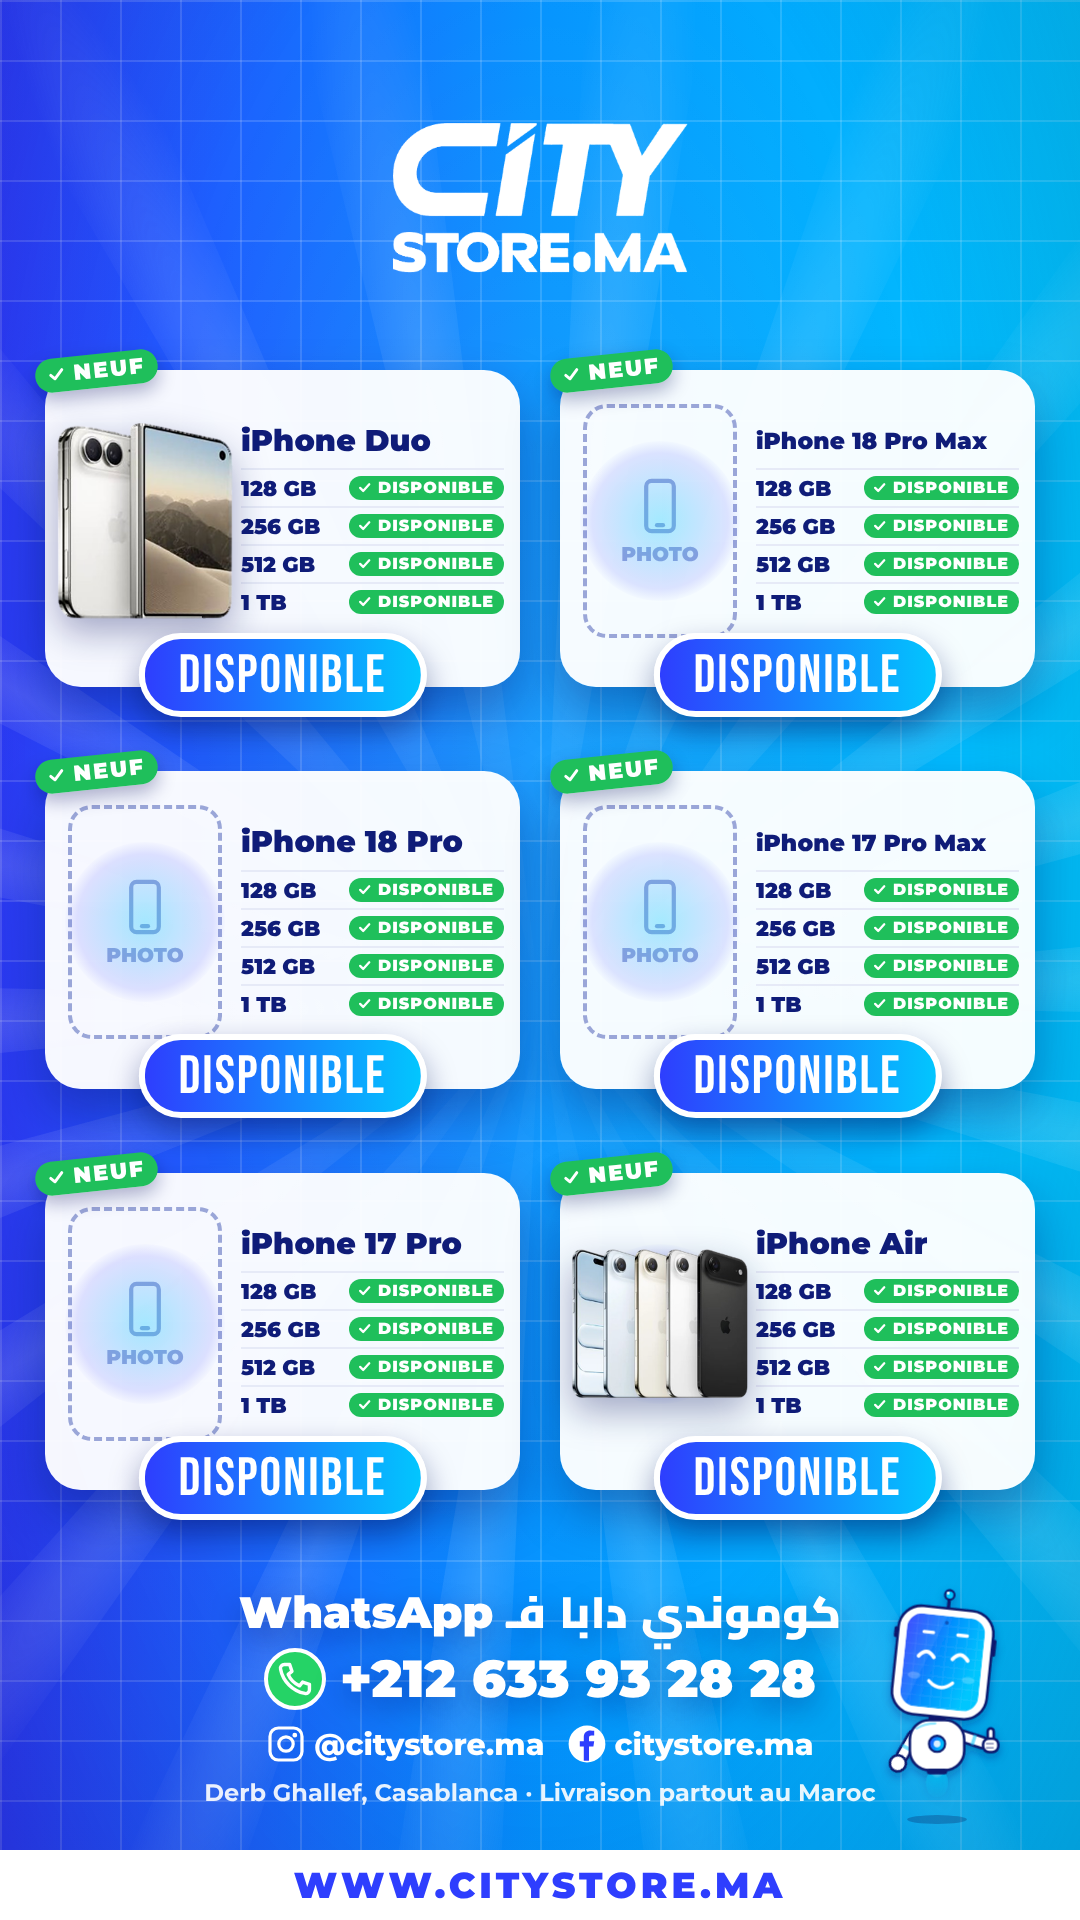
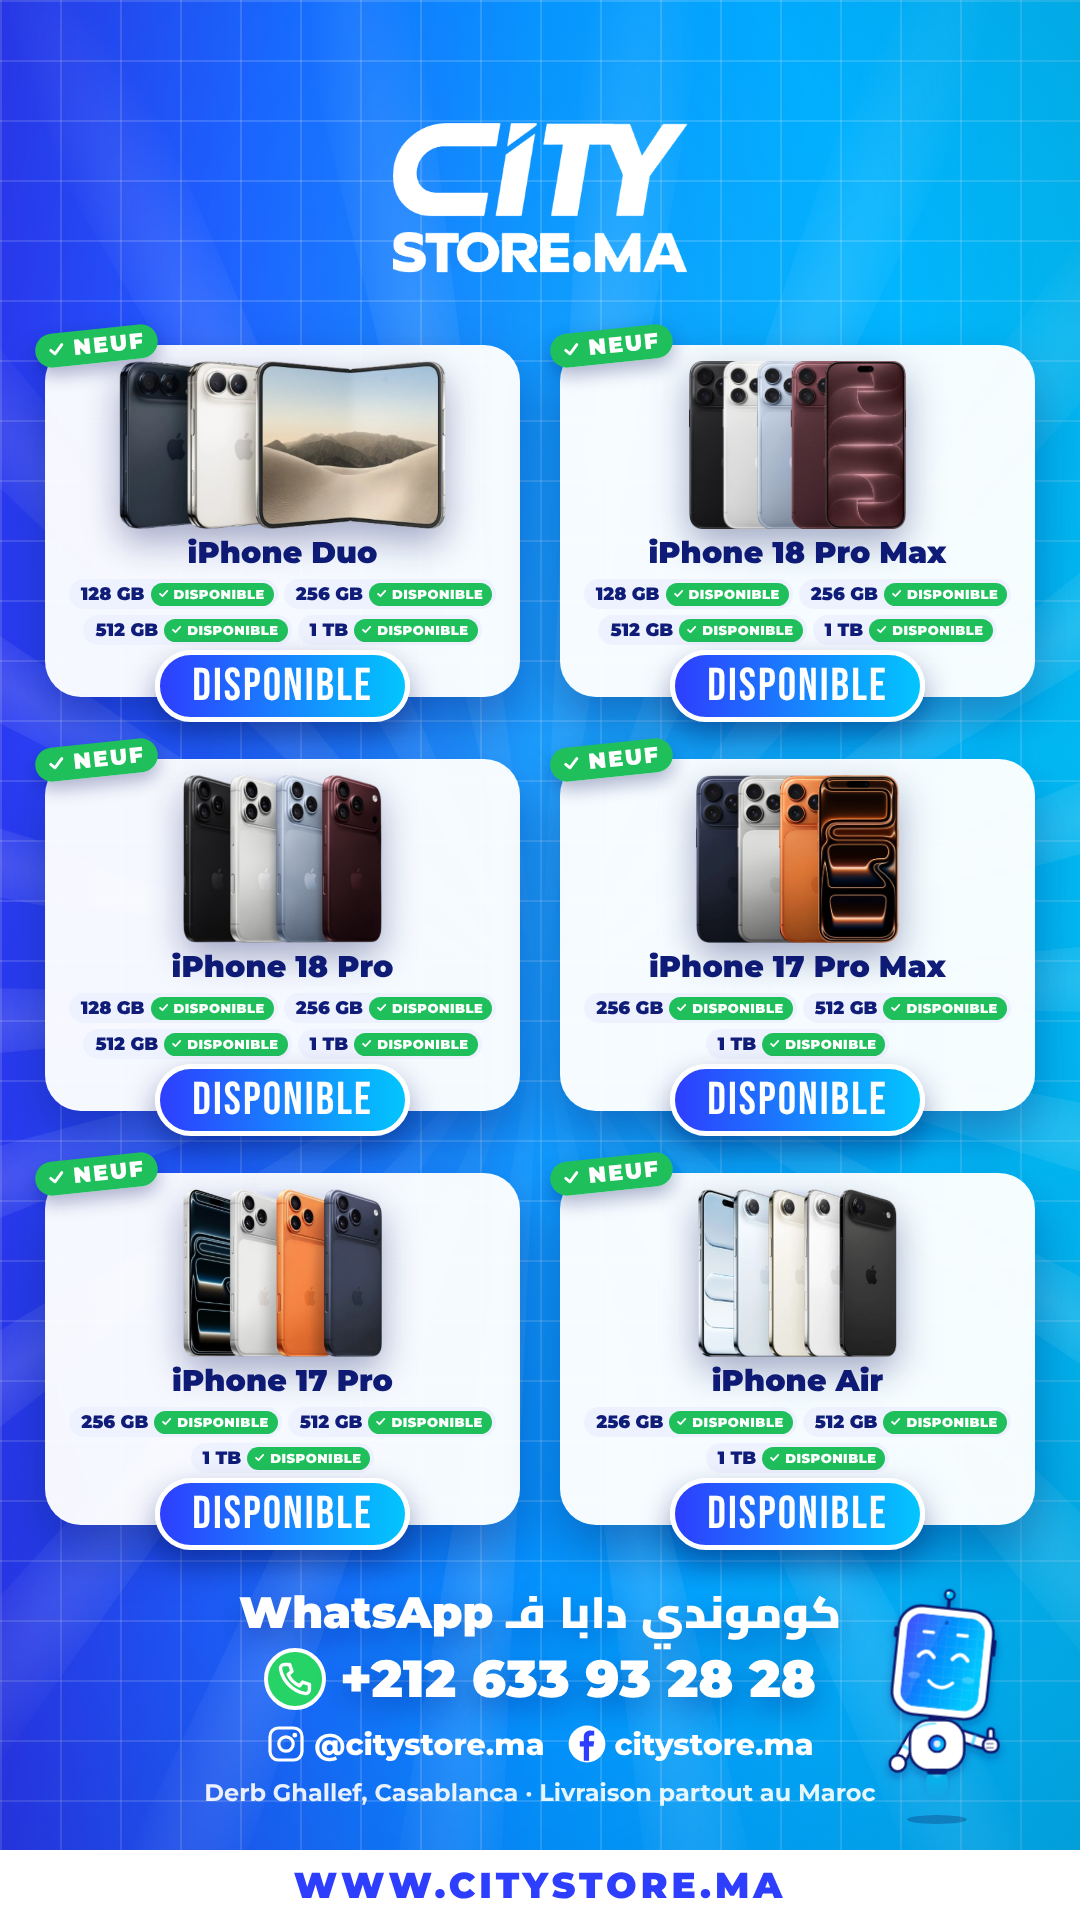
iPhones availability list: real photos, sizes under each product, no 128 GB on 17 Pro / 17 Pro Max / Air
Claude-Session: https://claude.ai/code/session_01B6UvVnyVQqoyQ1GwELGaCV

diff --git a/src/pricelist/PriceList.tsx b/src/pricelist/PriceList.tsx
@@ -54,40 +54,39 @@ const PhotoSlot: React.FC = () => (
   </div>
 );
 
-/* side-by-side card for availability lists: photo on the left, name + one row per entry ("128 GB  ✓ DISPONIBLE") */
+/* availability card: photo on top, name, then the sizes under it (each with its own "✓ DISPONIBLE"), tag at the bottom.
+   Fixed rows so cards in the same row line up (photos stand on the same line, names and sizes at the same height). */
 const StockCard: React.FC<{ it: PriceItem; w: number; h: number }> = ({ it, w, h }) => {
-  const tagSize = h > 420 ? 66 : 54;
-  const padTop = 18, padBottom = tagSize * 0.62;
-  const colW = w - 200;
+  const tagSize = h > 420 ? 60 : 46;
+  const padTop = 16, padBottom = tagSize * 1.12;
   const nameMax = 30;
-  const nameSize = Math.min(nameMax, (colW - 6) / (it.name.length * 0.68));
-  const rows = it.stock ?? [];
-  const rowH = Math.min(38, (h - padTop - padBottom - nameMax * 1.3 - 8) / Math.max(rows.length, 1));
+  const nameSize = Math.min(nameMax, (w - 40) / (it.name.length * 0.68));
+  const chipH = 30, chipGap = 6;
+  const sizesH = chipH * 2 + chipGap; // room for up to 4 sizes (2 x 2)
+  const slotH = h - padTop - padBottom - nameMax * 1.2 - sizesH - 14;
   return (
-    <div style={{ position: "relative", width: w, height: h, background: "rgba(255,255,255,0.96)", borderRadius: 36, boxShadow: "0 24px 50px rgba(6,14,90,0.35)", display: "flex", padding: `${padTop}px 16px ${padBottom}px 12px`, gap: 8 }}>
-      <div style={{ position: "relative", width: 176, flexShrink: 0, display: "flex", alignItems: "center", justifyContent: "center" }}>
-        <div style={{ position: "absolute", width: 160, height: 160, borderRadius: "50%", background: `radial-gradient(circle, ${COLORS.cyan}55 0%, ${COLORS.blue}22 60%, rgba(255,255,255,0) 72%)` }} />
+    <div style={{ position: "relative", width: w, height: h, background: "rgba(255,255,255,0.96)", borderRadius: 36, boxShadow: "0 24px 50px rgba(6,14,90,0.35)", display: "flex", flexDirection: "column", alignItems: "center", padding: `${padTop}px 14px ${padBottom}px` }}>
+      <div style={{ position: "relative", height: slotH, width: "100%", display: "flex", alignItems: "flex-end", justifyContent: "center" }}>
+        <div style={{ position: "absolute", top: 0, width: slotH, height: slotH, borderRadius: "50%", background: `radial-gradient(circle, ${COLORS.cyan}55 0%, ${COLORS.blue}22 60%, rgba(255,255,255,0) 72%)` }} />
         {it.img ? (
-          <Img src={staticFile(it.img)} style={{ position: "relative", maxWidth: "100%", maxHeight: "100%", transform: `scale(${it.scale ?? 1}) rotate(${it.rotate ?? 0}deg)`, filter: "drop-shadow(0 14px 18px rgba(6,14,90,0.35))" }} />
+          <Img src={staticFile(it.img)} style={{ position: "relative", maxWidth: "88%", maxHeight: "100%", transformOrigin: "bottom center", transform: `scale(${it.scale ?? 1}) rotate(${it.rotate ?? 0}deg)`, filter: "drop-shadow(0 14px 18px rgba(6,14,90,0.35))" }} />
         ) : (
           <PhotoSlot />
         )}
       </div>
-      <div style={{ flex: 1, display: "flex", flexDirection: "column", justifyContent: "center" }}>
-        <div style={{ height: nameMax * 1.3, display: "flex", alignItems: "center", fontFamily: FONT, fontWeight: 900, fontSize: nameSize, lineHeight: 1, color: INK, whiteSpace: "nowrap" }}>{it.name}</div>
-        <div style={{ marginTop: 8, display: "flex", flexDirection: "column" }}>
-          {rows.map((r) => (
-            <div key={r} style={{ height: rowH, display: "flex", alignItems: "center", justifyContent: "space-between", borderTop: "2px solid #E6EAF7" }}>
-              <span style={{ fontFamily: FONT, fontWeight: 900, fontSize: rowH * 0.56, color: INK }}>{r}</span>
-              <span style={{ display: "inline-flex", alignItems: "center", gap: 4, background: GREEN, color: "#fff", fontFamily: FONT, fontWeight: 900, fontSize: rowH * 0.42, letterSpacing: 1, padding: "2px 10px 3px 6px", borderRadius: 999 }}>
-                <LineIcon name="check" size={rowH * 0.5} stroke={12} color="#fff" />DISPONIBLE
-              </span>
-            </div>
-          ))}
-        </div>
+      <div style={{ marginTop: 6, height: nameMax * 1.2, display: "flex", alignItems: "center", fontFamily: FONT, fontWeight: 900, fontSize: nameSize, lineHeight: 1, color: INK, whiteSpace: "nowrap" }}>{it.name}</div>
+      <div style={{ marginTop: 8, height: sizesH, width: "100%", display: "flex", flexWrap: "wrap", justifyContent: "center", alignContent: "flex-start", gap: chipGap }}>
+        {(it.stock ?? []).map((r) => (
+          <div key={r} style={{ height: chipH, display: "inline-flex", alignItems: "center", gap: 6, background: "#EEF2FF", borderRadius: 999, padding: "0 4px 0 12px" }}>
+            <span style={{ fontFamily: FONT, fontWeight: 900, fontSize: 18, color: INK, whiteSpace: "nowrap" }}>{r}</span>
+            <span style={{ display: "inline-flex", alignItems: "center", gap: 3, background: GREEN, color: "#fff", fontFamily: FONT, fontWeight: 900, fontSize: 13, letterSpacing: 0.5, padding: "3px 9px 4px 5px", borderRadius: 999 }}>
+              <LineIcon name="check" size={15} stroke={12} color="#fff" />DISPONIBLE
+            </span>
+          </div>
+        ))}
       </div>
       {it.condition && <div style={{ position: "absolute", top: -16, left: -10, transform: "rotate(-6deg)", boxShadow: "0 8px 18px rgba(6,14,90,0.3)", borderRadius: 999 }}><Condition c={it.condition} size={22} /></div>}
-      <div style={{ position: "absolute", bottom: -tagSize * 0.55, left: "50%", transform: "translateX(-50%)", background: `linear-gradient(90deg, ${COLORS.blue}, ${COLORS.cyan})`, color: "#fff", fontFamily: FONT_DISPLAY, fontWeight: 900, fontSize: tagSize, lineHeight: 1, letterSpacing: 2, padding: "10px 34px 8px", borderRadius: 999, border: "6px solid #fff", boxShadow: "0 14px 30px rgba(6,14,90,0.4)", whiteSpace: "nowrap" }}>
+      <div style={{ position: "absolute", bottom: -tagSize * 0.55, background: `linear-gradient(90deg, ${COLORS.blue}, ${COLORS.cyan})`, color: "#fff", fontFamily: FONT_DISPLAY, fontWeight: 900, fontSize: tagSize, lineHeight: 1, letterSpacing: 2, padding: "9px 32px 7px", borderRadius: 999, border: "5px solid #fff", boxShadow: "0 14px 30px rgba(6,14,90,0.4)", whiteSpace: "nowrap" }}>
         {it.price}
       </div>
     </div>
@@ -129,7 +128,8 @@ export const PriceList: React.FC<PriceListProps> = ({ title, subtitle, items, wh
   const rows = n <= 2 ? 1 : n <= 4 ? 2 : 3;
   const cols = n === 1 ? 1 : 2;
   const header = !!(title || subtitle);
-  const gridTop = header ? 545 : 370, gridBottom = 1490, gapX = 40, gapY = 84;
+  const stockList = items.some((it) => it.stock);
+  const gridTop = header ? 545 : 345, gridBottom = stockList ? 1525 : 1500, gapX = 40, gapY = stockList ? 62 : 84;
   const w = cols === 1 ? 640 : 475;
   const h = Math.min(600, (gridBottom - gridTop - gapY * (rows - 1)) / rows);
   const heavy: React.CSSProperties = { fontFamily: FONT, fontWeight: 900, color: "#fff", lineHeight: 1, textShadow: "0 10px 30px rgba(8,20,110,0.4)", whiteSpace: "nowrap" };

diff --git a/src/pricelist/lists.ts b/src/pricelist/lists.ts
@@ -39,15 +39,15 @@ export const PRICE_LISTS: Record<string, PriceListProps> = {
   },
   iphones: {
     items: [
-      // img "" = photo still missing (a dashed PHOTO slot is drawn)
       ...[
-        { name: "iPhone Duo", img: "iphoneduo2/products/flat_white.png" },
-        { name: "iPhone 18 Pro Max", img: "" },
-        { name: "iPhone 18 Pro", img: "" },
-        { name: "iPhone 17 Pro Max", img: "" },
-        { name: "iPhone 17 Pro", img: "" },
-        { name: "iPhone Air", img: "pricelist/iphones/air.png" },
-      ].map((p) => ({ ...p, price: "DISPONIBLE", condition: "neuf" as const, stock: ["128 GB", "256 GB", "512 GB", "1 TB"] })),
+        { name: "iPhone Duo", img: "pricelist/iphones/duo.png", stock: ["128 GB", "256 GB", "512 GB", "1 TB"] },
+        { name: "iPhone 18 Pro Max", img: "pricelist/iphones/18promax.png", stock: ["128 GB", "256 GB", "512 GB", "1 TB"] },
+        { name: "iPhone 18 Pro", img: "pricelist/iphones/18pro.png", stock: ["128 GB", "256 GB", "512 GB", "1 TB"] },
+        // 17 Pro / 17 Pro Max / Air start at 256 GB
+        { name: "iPhone 17 Pro Max", img: "pricelist/iphones/17promax.png", stock: ["256 GB", "512 GB", "1 TB"] },
+        { name: "iPhone 17 Pro", img: "pricelist/iphones/17pro.png", stock: ["256 GB", "512 GB", "1 TB"] },
+        { name: "iPhone Air", img: "pricelist/iphones/air.png", stock: ["256 GB", "512 GB", "1 TB"] },
+      ].map((p) => ({ ...p, price: "DISPONIBLE", condition: "neuf" as const })),
     ],
   },
 };

diff --git a/assets/pricelist/iphones/SOURCES.md b/assets/pricelist/iphones/SOURCES.md
@@ -1,6 +1,11 @@
 # iPhones availability list: sources
-- `src/iphone_air_colours.png` (301 px, transparent, supplied by City Store): iPhone Air in its four colours
-  (Sky Blue, Light Gold, Cloud White, Space Black) -> `public/pricelist/iphones/air.png` (trimmed, upscaled 3x).
-- iPhone Duo: `public/iphoneduo2/products/flat_white.png` (official render from the iPhone Duo reels).
-- iPhone 18 Pro Max, 18 Pro, 17 Pro Max, 17 Pro: **photos still missing** (dashed PHOTO slots).
-- Storage list (128 GB / 256 GB / 512 GB / 1 TB, all "DISPONIBLE") as asked by City Store; to confirm per model.
+All transparent PNG/WebP supplied by City Store (originals in `src/`), trimmed; the 301 px ones upscaled 2-3x.
+- iPhone Duo: `iphone_duo_trio.png` (Night Sky, Star White, unfolded) -> `public/pricelist/iphones/duo.png`
+- iPhone 18 Pro Max: `iphone18promax_four_colours_front.webp` (Black, Silver, Glacier, Burgundy + front) -> `18promax.png`
+- iPhone 18 Pro: `iphone18pro_four_colours.png` (Black, Silver, Glacier, Burgundy) -> `18pro.png`
+- iPhone 17 Pro Max: `iphone17promax_three_colours_front.webp` (Deep Blue, Silver, Cosmic Orange + front) -> `17promax.png`
+- iPhone 17 Pro: `iphone17pro_front_three_colours.png` (front, Silver, Cosmic Orange, Deep Blue) -> `17pro.png`
+- iPhone Air: `iphone_air_colours.png` (Sky Blue, Light Gold, Cloud White, Space Black) -> `air.png`
+Pro vs Pro Max share a design, so which image goes on which card is a layout choice.
+Storage (all "DISPONIBLE"), as given by City Store: Duo / 18 Pro / 18 Pro Max 128 GB-1 TB; 17 Pro / 17 Pro Max / Air
+256 GB-1 TB (no 128 GB on those).
